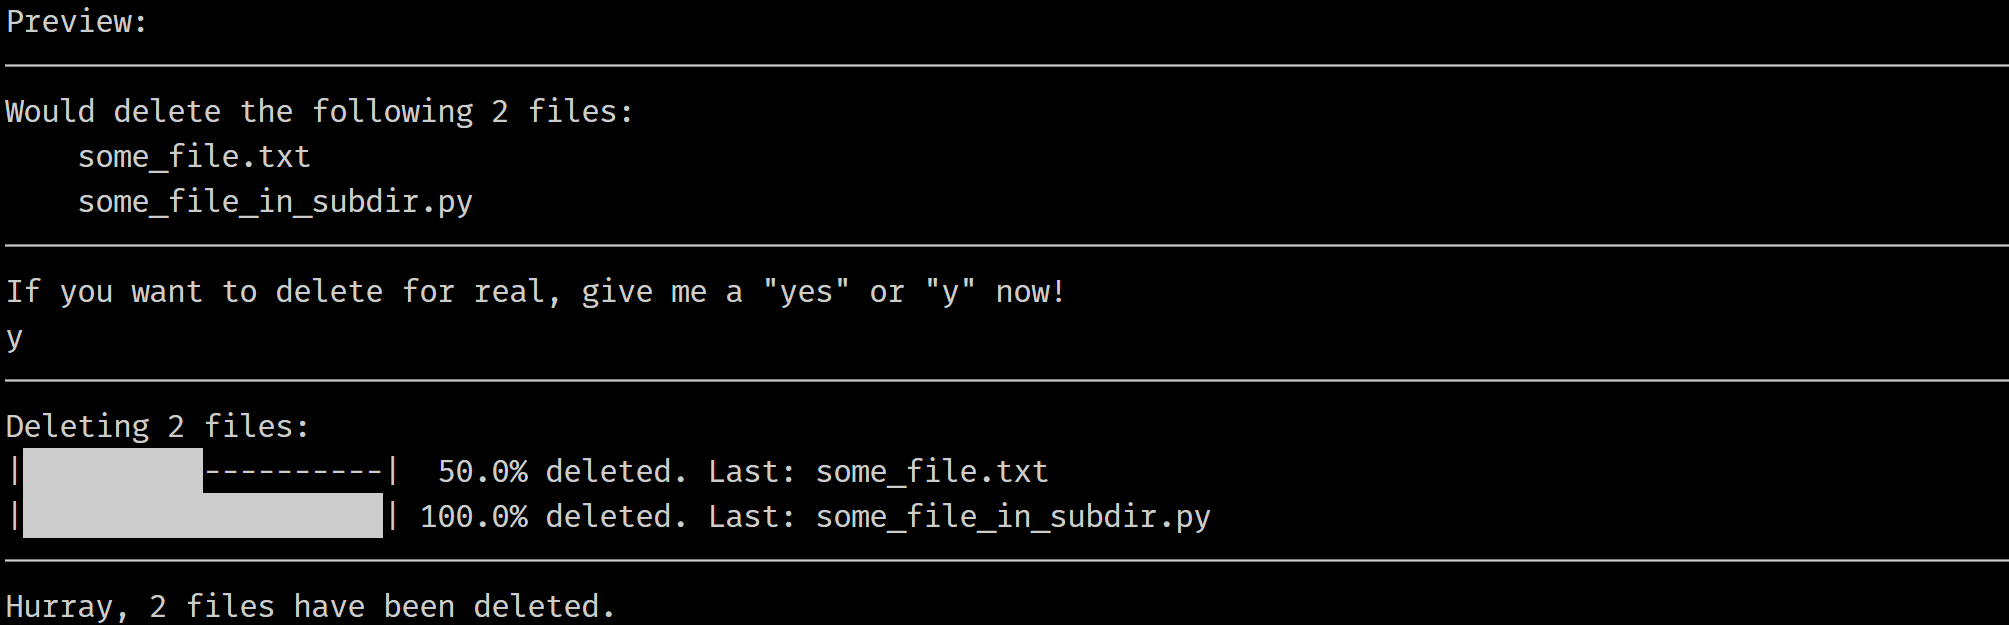
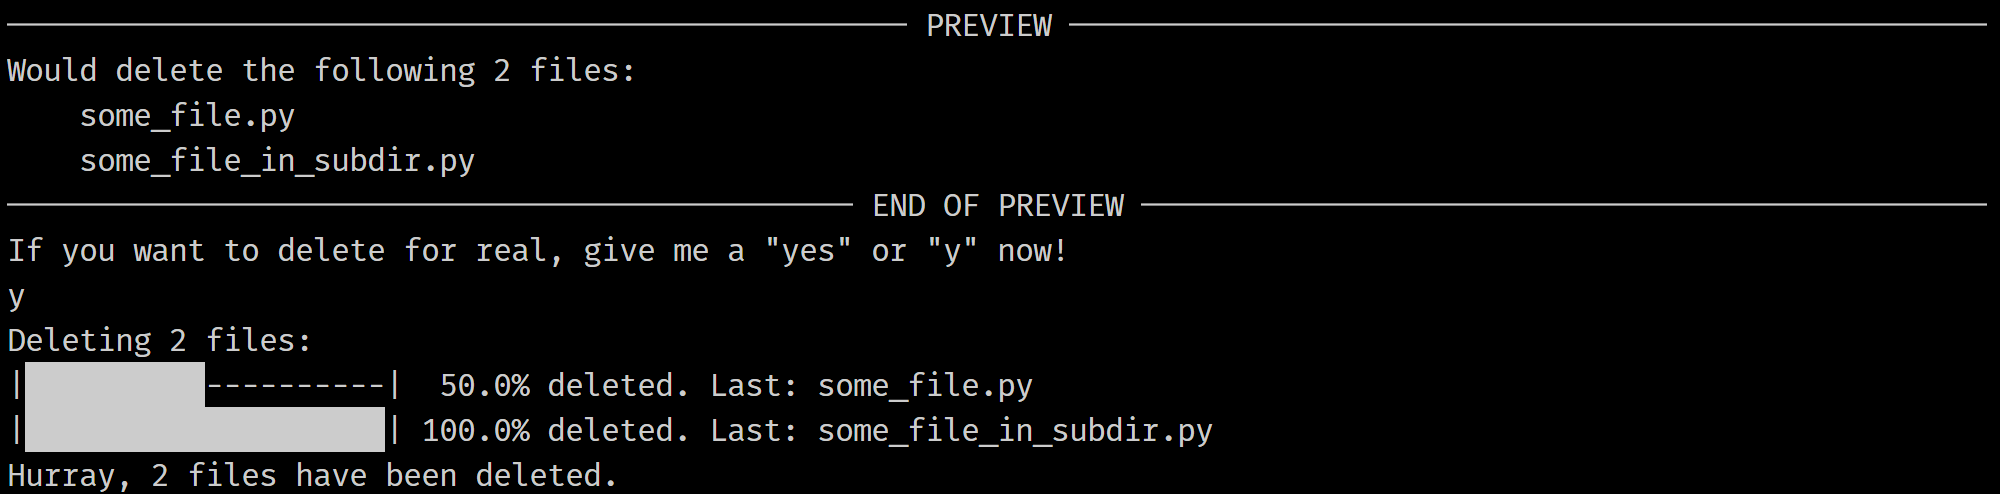
feat(delete): cleaner reporting

Changed region(s): [[0.0, 0.5769, 1.0, 1.0], [0.0, 0.3036, 1.0, 0.5466], [0.0, 0.0, 1.0, 0.2733]]

diff --git a/clifs/plugins/delete.py b/clifs/plugins/delete.py
@@ -40,8 +40,9 @@ class FileDeleter(ClifsPlugin, PathGetterMixin):
         self.exit_if_nothing_to_process(self.files2process)
 
         if not self.skip_preview:
-            self.console.print("Preview:")
+            print_line(self.console, "PREVIEW")
             self.delete_files(dry_run=True)
+            print_line(self.console, "END OF PREVIEW")
             if not user_query(
                 'If you want to delete for real, give me a "yes" or "y" now!'
             ):
@@ -51,7 +52,6 @@ class FileDeleter(ClifsPlugin, PathGetterMixin):
 
     def delete_files(self, dry_run: bool = False) -> None:
         num_files2process = len(self.files2process)
-        print_line(self.console)
         if dry_run:
             self.console.print(f"Would delete the following {num_files2process} files:")
         else:
@@ -68,6 +68,5 @@ class FileDeleter(ClifsPlugin, PathGetterMixin):
                     num_files2process,
                     suffix=f"deleted. Last: {path_file.name}",
                 )
-        print_line(self.console)
         if not dry_run:
             print(f"Hurray, {num_file} files have been deleted.")
